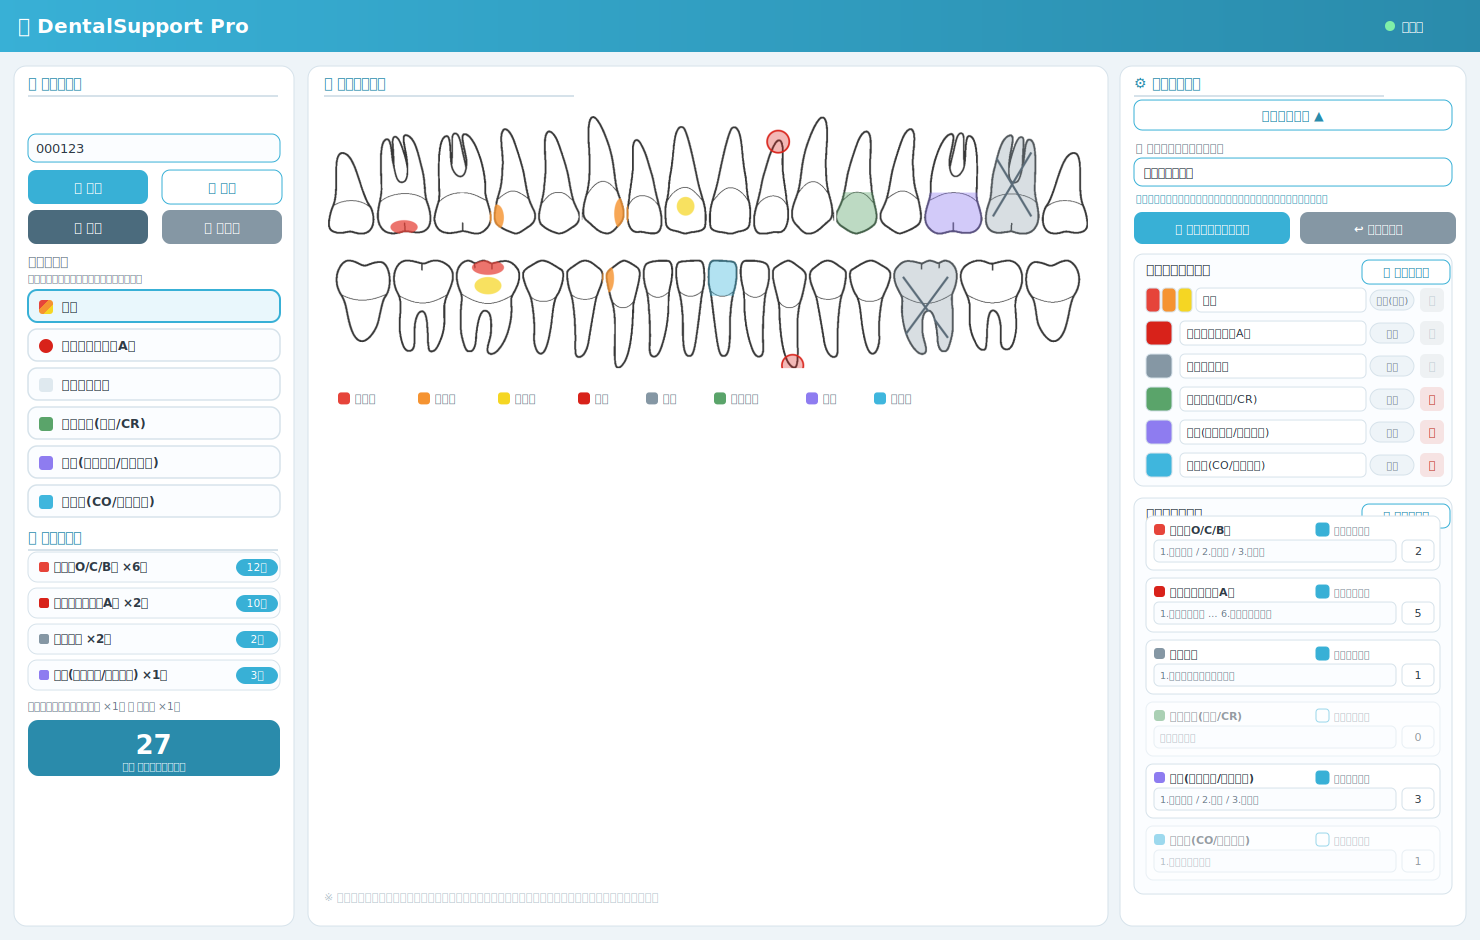
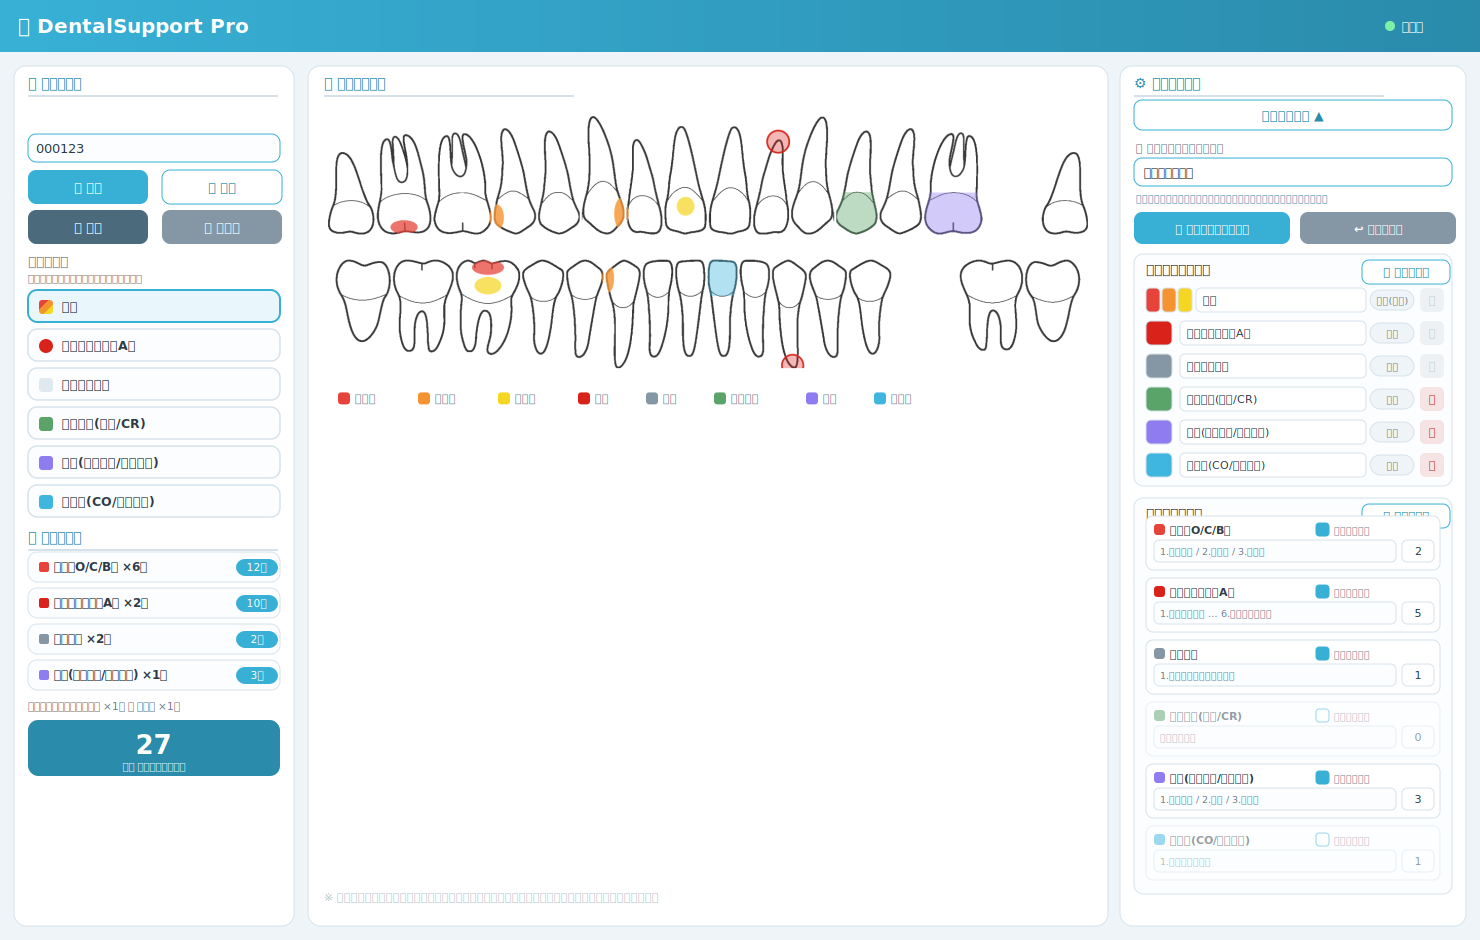
欠損モードを「歯を消す」に変更（×印→歯を消去）
- 欠損は歯のバウンディングボックスを背景色(白)で覆い、歯を完全に消去
- マスククリップ外の独立グループで描画（歯間6pxの余白内に収まり隣接歯に影響なし）
- 旧 ×印/グレーボックス描画とCSSを廃止
- プレビュー更新

Changed region(s): [[0.6527, 0.1234, 0.7149, 0.2468], [0.5905, 0.2777, 0.6527, 0.3702]]

diff --git a/index.html b/index.html
@@ -69,8 +69,7 @@
   .mk { display: none; pointer-events: none; }
   .mk.on { display: block; }
   .mk.part { opacity: .9; }
-  .mk.xbox { fill: rgba(120,140,155,.35); }
-  .mk.xline { stroke: #5a6b78; stroke-width: 4; opacity: .8; }
+  .mk.miss { fill: #fff; }
   .mk.whole { opacity: .40; }
 
   .legend { display: flex; flex-wrap: wrap; gap: 10px; margin-top: 10px; font-size: 11px; color: var(--text-soft); justify-content: center; }
@@ -325,7 +324,7 @@ function buildOverlay() {
   const ov = document.getElementById("overlay");
   const cm  = surfaceMode();
   const apx = apexModes()[0];
-  let marks = "", apexMarks = "", hits = "";
+  let marks = "", apexMarks = "", hits = "", eraseMarks = "";
   TEETH_GEOM.forEach(t => {
     const id = t.id, x = t.cx, m = toothMetrics(t), hw = m.hw;
     const hT = m.ht, hH = m.hb - m.ht;
@@ -344,10 +343,8 @@ function buildOverlay() {
       apexMarks += `<g class="mk part" data-id="${id}" data-mode="${apx.id}">`
         + `<circle cx="${m.apexX}" cy="${m.apexY}" r="${r}" fill="${apx.color}" fill-opacity="0.32" stroke="${apx.color}" stroke-width="${Math.max(r*0.16,2.5)}" stroke-opacity="0.95"/></g>`;
     }
-    // 欠損
-    marks += `<rect class="mk xbox" data-id="${id}" x="${x-hw*0.98}" y="${hT}" width="${hw*1.96}" height="${hH}" rx="6"/>`;
-    marks += `<line class="mk xline" data-id="${id}" x1="${x-hw*0.7}" y1="${hT+hH*0.18}" x2="${x+hw*0.7}" y2="${hT+hH*0.82}"/>`;
-    marks += `<line class="mk xline" data-id="${id}" x1="${x+hw*0.7}" y1="${hT+hH*0.18}" x2="${x-hw*0.7}" y2="${hT+hH*0.82}"/>`;
+    // 欠損：歯を消す（歯のバウンディングボックスを背景色で覆う＝クリップしない）
+    eraseMarks += `<rect class="mk miss" data-id="${id}" x="${x-hw-2}" y="${hT-2}" width="${hw*2+4}" height="${hH+4}" fill="#ffffff"/>`;
     // クリックゾーン（部位指定）
     const occTop = m.occLower ? m.bnd : hT, occH = m.occLower ? (m.hb-m.bnd) : (m.bnd-hT);
     const bucTop = m.occLower ? hT : m.bnd, bucH = m.occLower ? (m.bnd-hT) : (m.hb-m.bnd);
@@ -359,7 +356,7 @@ function buildOverlay() {
   ov.innerHTML =
     `<defs><mask id="toothmask" maskUnits="userSpaceOnUse" x="0" y="0" width="${VBW}" height="${VBH}">`
[1 lines of base64/hex data omitted]
-    + `<g mask="url(#toothmask)">${marks}</g>${apexMarks}${hits}`;
+    + `<g mask="url(#toothmask)">${marks}</g>${eraseMarks}${apexMarks}${hits}`;
   ov.querySelectorAll(".hit").forEach(el => el.addEventListener("click", () => onToothClick(el.dataset.id, el.dataset.surface)));
 }
 
@@ -398,8 +395,8 @@ function renderTooth(id) {
   const wholeEl = ov.querySelector(`.mk.whole[data-id="${id}"]`);
   if (stMode && stMode.type === "whole") { wholeEl.style.fill = stMode.color; wholeEl.classList.add("on"); }
   else wholeEl.classList.remove("on");
-  // 欠損
-  ov.querySelectorAll(`.mk.xbox[data-id="${id}"], .mk.xline[data-id="${id}"]`).forEach(e => e.classList.toggle("on", isMissing));
+  // 欠損（歯を消す）
+  ov.querySelectorAll(`.mk.miss[data-id="${id}"]`).forEach(e => e.classList.toggle("on", isMissing));
 }
 function renderAllTeeth() { Object.keys(toothData).forEach(renderTooth); }
 
